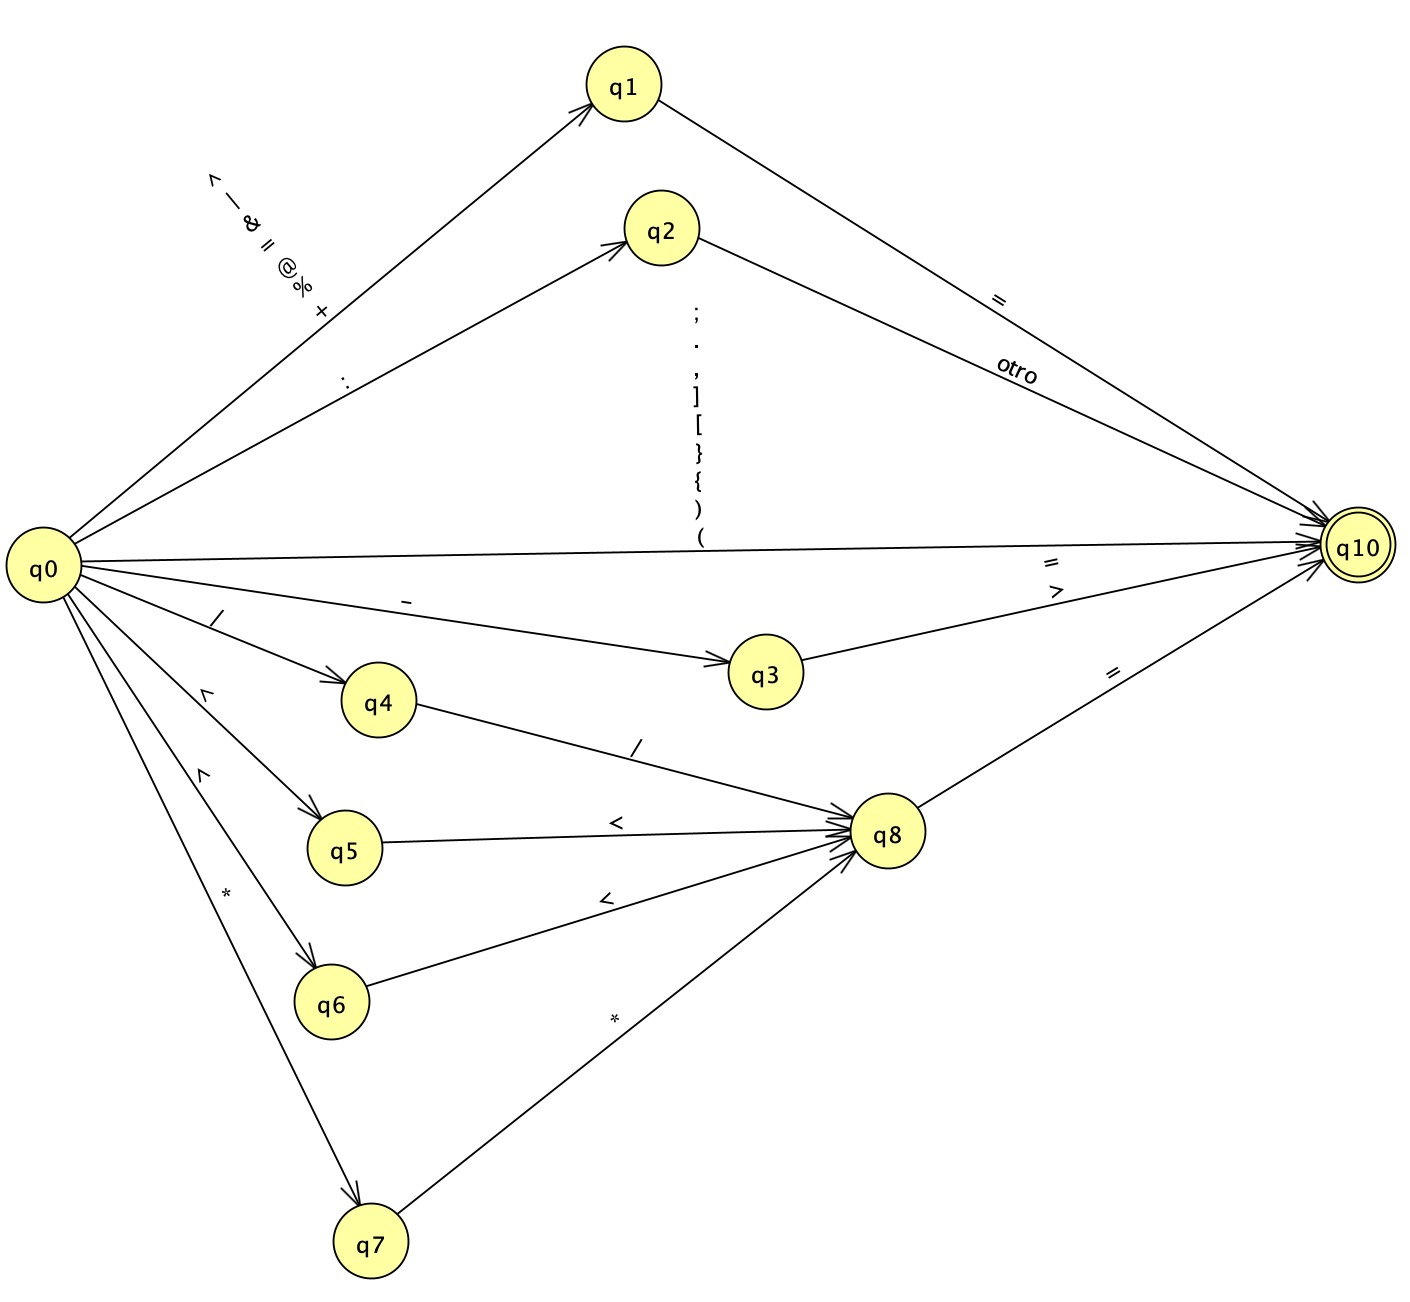
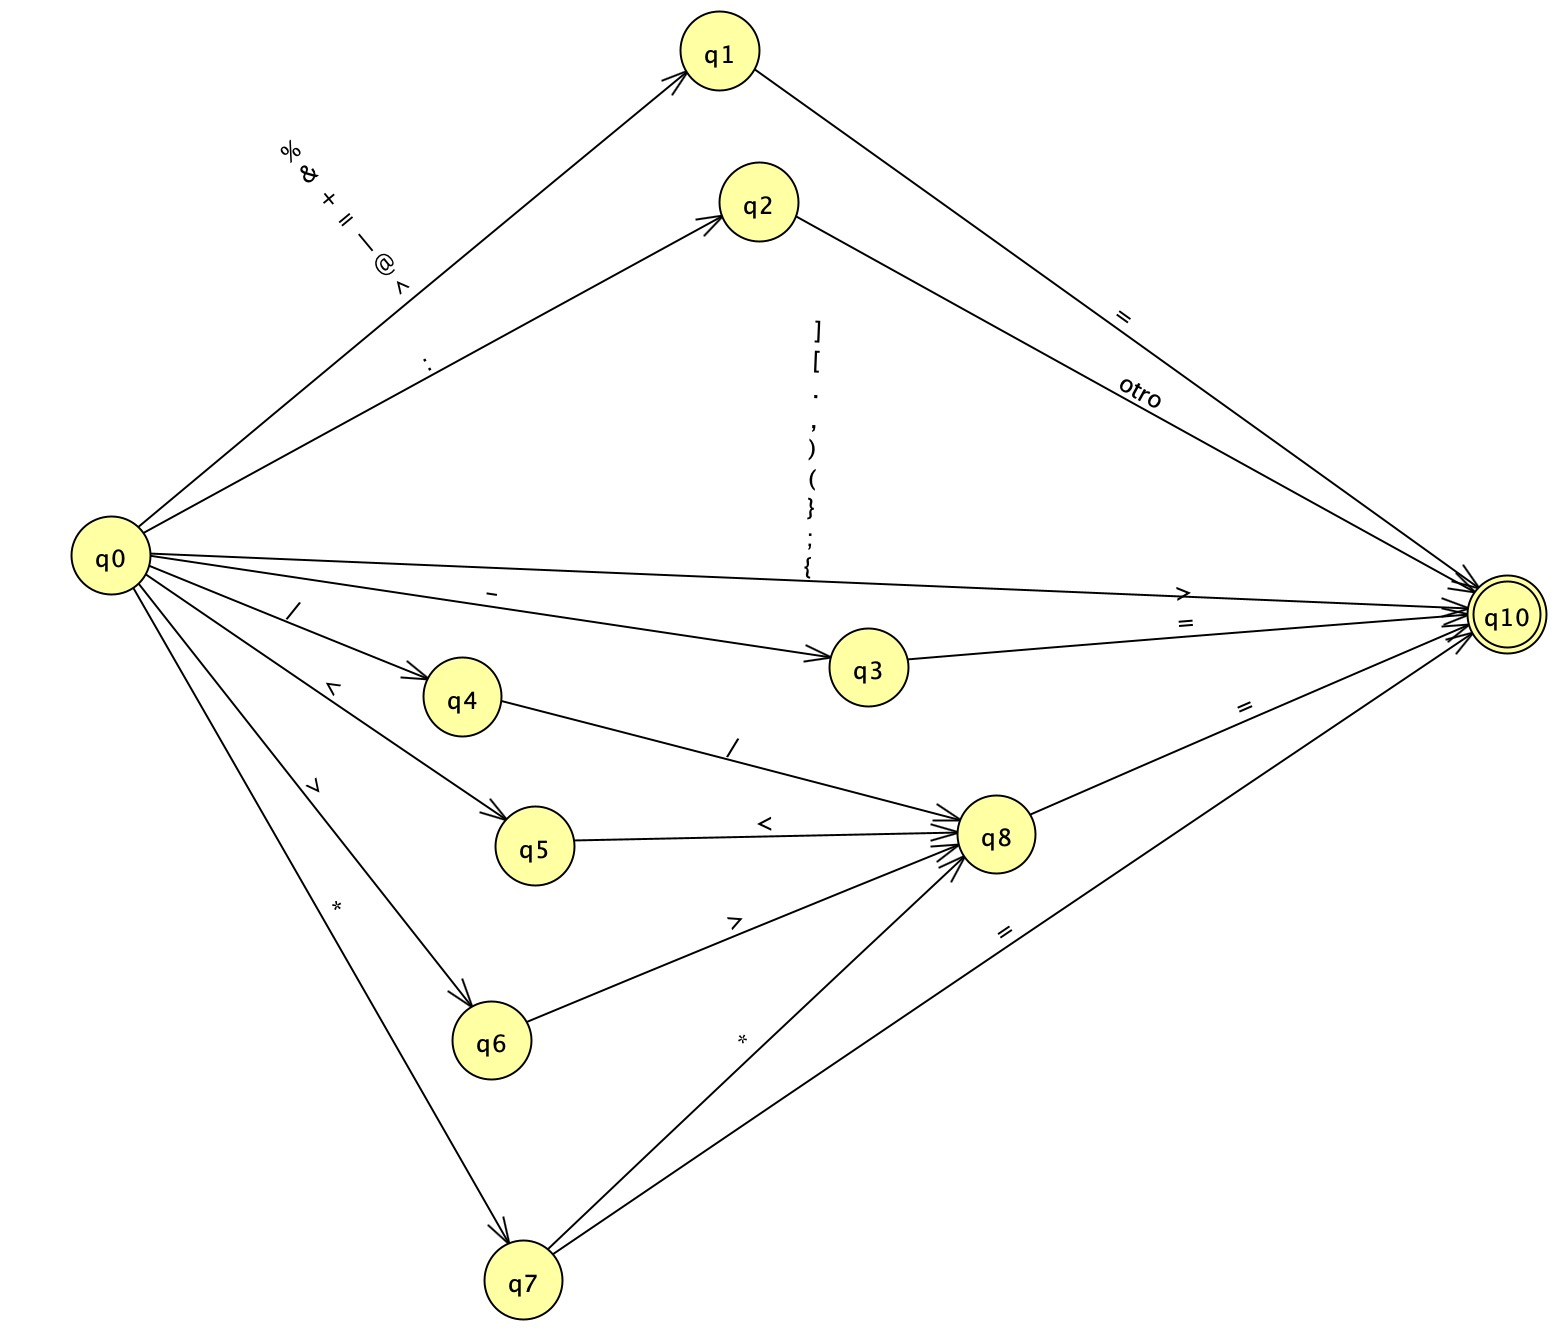
Automaton Operators and Delimiters update V.2.0.0

diff --git a/analizadorLexico/analizadorLexico.c b/analizadorLexico/analizadorLexico.c
@@ -295,28 +295,26 @@ int automataOp(char *siguienteChar, token *tokenProcesado){
      *  -> Estado 0: Inicial
      *  -> Estado 10: Aceptación
     */
-    while(estado != 2){
+    while(estado != -1){
         switch(estado){
 
             case 0:
 
-                if(*siguienteChar == '+' || *siguienteChar == '-' || *siguienteChar == '%' ||
-                    *siguienteChar == '&' || *siguienteChar == '|' || *siguienteChar == '@' || *siguienteChar == '^'){ //TODO: funciona
+                if(*siguienteChar == '+'|| *siguienteChar == '%' || *siguienteChar == '&' || *siguienteChar == '|' || *siguienteChar == '@' || *siguienteChar == '^'){ 
                     estado = 1;
                     *siguienteChar = siguienteCaracter(ficheroEntrada);
                 }
 
-                else if (*siguienteChar == '*'){
+                else if (*siguienteChar == '*'){ 
                     estado = 2;
                     *siguienteChar = siguienteCaracter(ficheroEntrada);
                 }
 
-                else if (*siguienteChar == '~'){
-                    estado = 12;
-                    *siguienteChar = siguienteCaracter(ficheroEntrada);
+                else if (*siguienteChar == '~'){ 
+                    estado = 10;
                 }
 
-                else if (*siguienteChar == '/'){ //TODO: funciona
+                else if (*siguienteChar == '/'){ 
                     estado = 4;
                     *siguienteChar = siguienteCaracter(ficheroEntrada);
                 }
@@ -324,15 +322,20 @@ int automataOp(char *siguienteChar, token *tokenProcesado){
                 else if (*siguienteChar == ':' || *siguienteChar == '=' || *siguienteChar == '!'){
                     estado = 5;
                     *siguienteChar = siguienteCaracter(ficheroEntrada);
-                }
+                } 
 
-                else if (*siguienteChar == '>'){ //TODO: funciona
+                else if (*siguienteChar == '>'){
                     estado = 6; 
                     *siguienteChar = siguienteCaracter(ficheroEntrada);
                 }
 
-                else if (*siguienteChar == '<'){ //TODO: funciona
+                else if (*siguienteChar == '<'){ 
                     estado = 7;
+                    *siguienteChar = siguienteCaracter(ficheroEntrada);
+                }
+
+                else if(*siguienteChar == '-' ){
+                    estado = 9;
                     *siguienteChar = siguienteCaracter(ficheroEntrada);
                 }
                 
@@ -345,6 +348,7 @@ int automataOp(char *siguienteChar, token *tokenProcesado){
                 if(*siguienteChar != '='){
                     estado = 10;
                     retrocederCaracter();
+                    *siguienteChar = devolverDelantero();
                 } else {
                     retrocederCaracter();
                     *siguienteChar = devolverDelantero();
@@ -364,7 +368,9 @@ int automataOp(char *siguienteChar, token *tokenProcesado){
                     estado = 10;
                     retrocederCaracter();
                     *siguienteChar = devolverDelantero();
-                } else { 
+                } 
+                
+                else { 
                     retrocederCaracter();
                     *siguienteChar = devolverDelantero();
                     return 0;
@@ -415,6 +421,7 @@ int automataOp(char *siguienteChar, token *tokenProcesado){
                     estado = 10;
                 } else {
                     retrocederCaracter();
+                    *siguienteChar = devolverDelantero();
                     return 0;
                 } 
 
@@ -425,7 +432,13 @@ int automataOp(char *siguienteChar, token *tokenProcesado){
                 if(*siguienteChar == '>'){
                     estado = 8;
                     *siguienteChar = siguienteCaracter(ficheroEntrada);
-                } else {
+                }
+                
+                else if(*siguienteChar == '='){
+                    estado = 10;
+                }
+                
+                else {
                     estado = 10;
                     retrocederCaracter();
                     *siguienteChar = devolverDelantero();
@@ -438,7 +451,13 @@ int automataOp(char *siguienteChar, token *tokenProcesado){
                 if(*siguienteChar == '<'){
                     estado = 8;
                     *siguienteChar = siguienteCaracter(ficheroEntrada);
-                } else {
+                } 
+                
+                else if(*siguienteChar == '='){
+                    estado = 10;
+                }
+
+                else {
                     estado = 10;
                     retrocederCaracter();
                     *siguienteChar = devolverDelantero();
@@ -451,12 +470,25 @@ int automataOp(char *siguienteChar, token *tokenProcesado){
                 if(*siguienteChar != '='){
                     estado = 10;
                     retrocederCaracter();
+                    *siguienteChar = devolverDelantero();
                 } else { // Retrocedemos dos veces porque el automata leyo '<<' o '>>' o '//'
                     retrocederCaracter();
                     retrocederCaracter();
                     *siguienteChar = devolverDelantero();
                     return 0;
                 } 
+                break;
+
+            case 9:
+                    
+                if(*siguienteChar != '=' && *siguienteChar != '>'){
+                    estado = 10;
+                } else {
+                    retrocederCaracter();
+                    *siguienteChar = devolverDelantero();
+                    return 0;
+                } 
+
                 break;
 
             case 10:
@@ -489,38 +521,37 @@ int automataDel(char *siguienteChar, token *tokenProcesado){
             case 0:
                 if(*siguienteChar == '(' || *siguienteChar == ')' || *siguienteChar == '{' || *siguienteChar == '}' || *siguienteChar == '[' 
                     || *siguienteChar == ']' || *siguienteChar == ',' || *siguienteChar == ';' || *siguienteChar == '.'){ 
-                    //TODO: funciona
                     estado = 10;  
                 }
 
-                else if( *siguienteChar == '^' || *siguienteChar == '&' || *siguienteChar == '|' || *siguienteChar == '=' 
+                else if( *siguienteChar == '^' || *siguienteChar == '&' || *siguienteChar == '|' 
                     || *siguienteChar == '@' || *siguienteChar == '%' || *siguienteChar == '+'){
-                    estado = 1;  //TODO: funciona
+                    estado = 1;  
                     *siguienteChar = siguienteCaracter(ficheroEntrada);
                 }
 
-                else if (*siguienteChar == ':'){
+                else if (*siguienteChar == ':' || *siguienteChar == '='){ 
                     estado = 2;
                     *siguienteChar = siguienteCaracter(ficheroEntrada);
                 }
 
                 else if (*siguienteChar == '-'){
-                    estado = 3;  //TODO: funciona
+                    estado = 3;  
                     *siguienteChar = siguienteCaracter(ficheroEntrada);
                 }
 
                 else if (*siguienteChar == '/'){
-                    estado = 4;  //TODO: funciona //= pero no /=
+                    estado = 4;  
                     *siguienteChar = siguienteCaracter(ficheroEntrada);
                 }
 
                 else if (*siguienteChar == '<'){
-                    estado = 5;  //TODO: funciona <<=
+                    estado = 5;  
                     *siguienteChar = siguienteCaracter(ficheroEntrada);
                 }
 
                 else if (*siguienteChar == '>'){
-                    estado = 6;  
+                    estado = 6; 
                     *siguienteChar = siguienteCaracter(ficheroEntrada);
                 }
 
@@ -539,6 +570,7 @@ int automataDel(char *siguienteChar, token *tokenProcesado){
 
                 }  else {
                     retrocederCaracter();
+                    *siguienteChar = devolverDelantero();
                     return 0;
                 } 
 
@@ -549,44 +581,59 @@ int automataDel(char *siguienteChar, token *tokenProcesado){
                 if(*siguienteChar != '='){
                     estado = 10;
                     retrocederCaracter();
-                    break;  
+                    *siguienteChar = devolverDelantero();
                 }  else {
                     retrocederCaracter();
+                    *siguienteChar = devolverDelantero();
                     return 0;
                 } 
+
+                break; 
             
             case 3:
 
                 if(*siguienteChar == '=' || *siguienteChar == '>'){
                     estado = 10;
-                    break;  
                 }  else {
                     retrocederCaracter();
+                    *siguienteChar = devolverDelantero();
                     return 0;
                 } 
+
+                break; 
 
             case 4:
 
                 if(*siguienteChar == '/'){
                     estado = 8;
                     *siguienteChar = siguienteCaracter(ficheroEntrada);
-                    break;  
-                }  else {
+                }  
+                
+                else if(*siguienteChar == '='){
+                    estado = 10;
+                } 
+                
+                else {
                     retrocederCaracter();
+                    *siguienteChar = devolverDelantero();
                     return 0;
                 } 
+
+                break; 
 
             case 5:
 
                 if(*siguienteChar == '<'){
                     estado = 8;
-                    *siguienteChar = siguienteCaracter(ficheroEntrada);
-                    break;  
+                    *siguienteChar = siguienteCaracter(ficheroEntrada); 
                 }  else {
                     retrocederCaracter();
+                    *siguienteChar = devolverDelantero();
                     return 0;
                 } 
                 
+                break; 
+
             case 6:
 
                 if(*siguienteChar == '>'){
@@ -594,30 +641,43 @@ int automataDel(char *siguienteChar, token *tokenProcesado){
                     *siguienteChar = siguienteCaracter(ficheroEntrada);
                 } else {
                     retrocederCaracter();
+                    *siguienteChar = devolverDelantero();
                     return 0;
                 } 
+
+                break;
 
             case 7:
 
                 if(*siguienteChar == '*'){
                     estado = 8;
-                    *siguienteChar = siguienteCaracter(ficheroEntrada);
-                    break;  
-                }  else { 
+                    *siguienteChar = siguienteCaracter(ficheroEntrada);  
+                }  
+                
+                else if(*siguienteChar == '='){
+                    estado = 10;
+                }
+                
+                else { 
                     retrocederCaracter();
+                    *siguienteChar = devolverDelantero();
                     return 0;
                 } 
+
+                break;
 
             case 8:
 
                 if(*siguienteChar == '='){
-                    estado = 10;
-                    break;  
+                    estado = 10; 
                 }  else { // Retrocedemos dos veces porque el automata leyo '//' o '<<' o '>>' o '**'
                     retrocederCaracter();
                     retrocederCaracter();
+                    *siguienteChar = devolverDelantero();
                     return 0;
                 } 
+
+                break; 
 
             case 10:
 
@@ -679,6 +739,11 @@ int main(){
     printf("%s %d\n", t.lexema, t.componente);
     seguinte_comp_lexico(&t, &tabla);
     printf("%s %d\n", t.lexema, t.componente);
+    seguinte_comp_lexico(&t, &tabla);
+    printf("%s %d\n", t.lexema, t.componente);
+    seguinte_comp_lexico(&t, &tabla);
+    printf("%s %d\n", t.lexema, t.componente);
+    
 
     printf("\n");
 }
